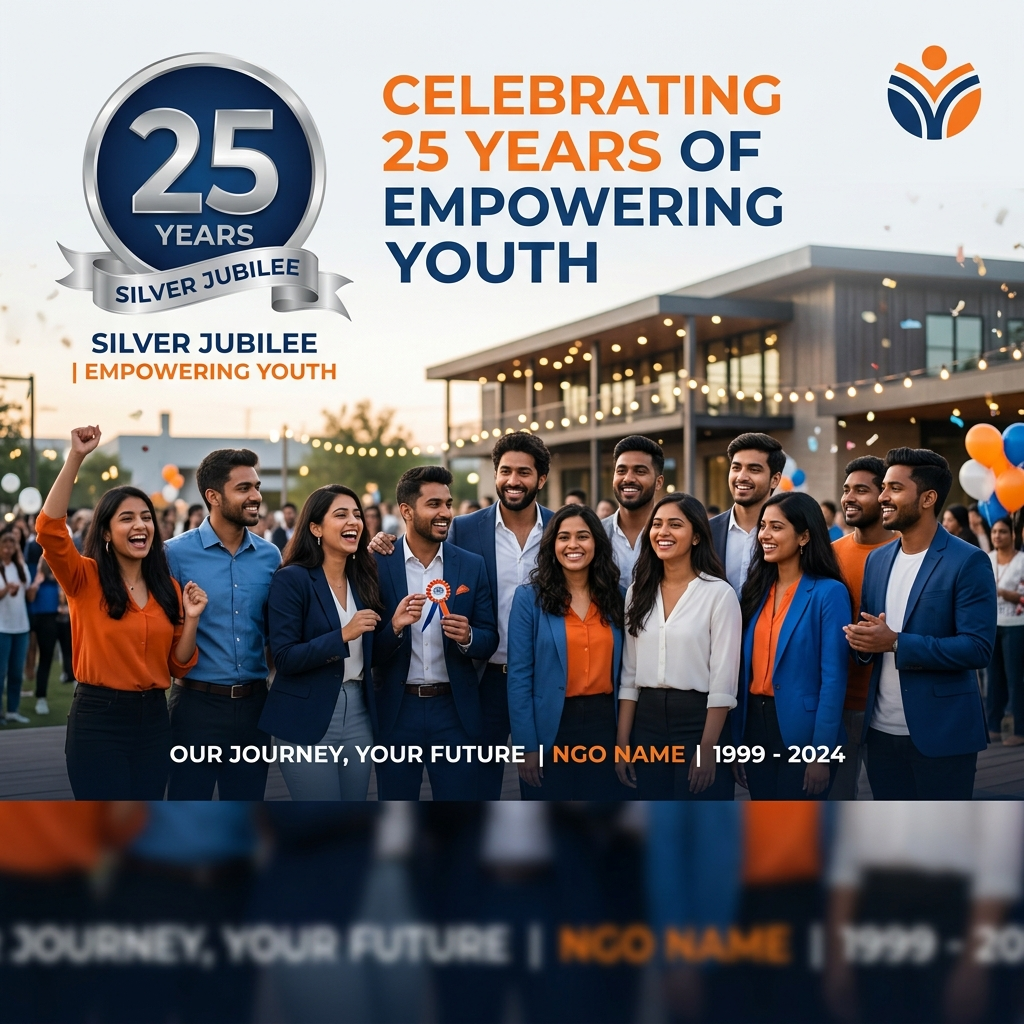
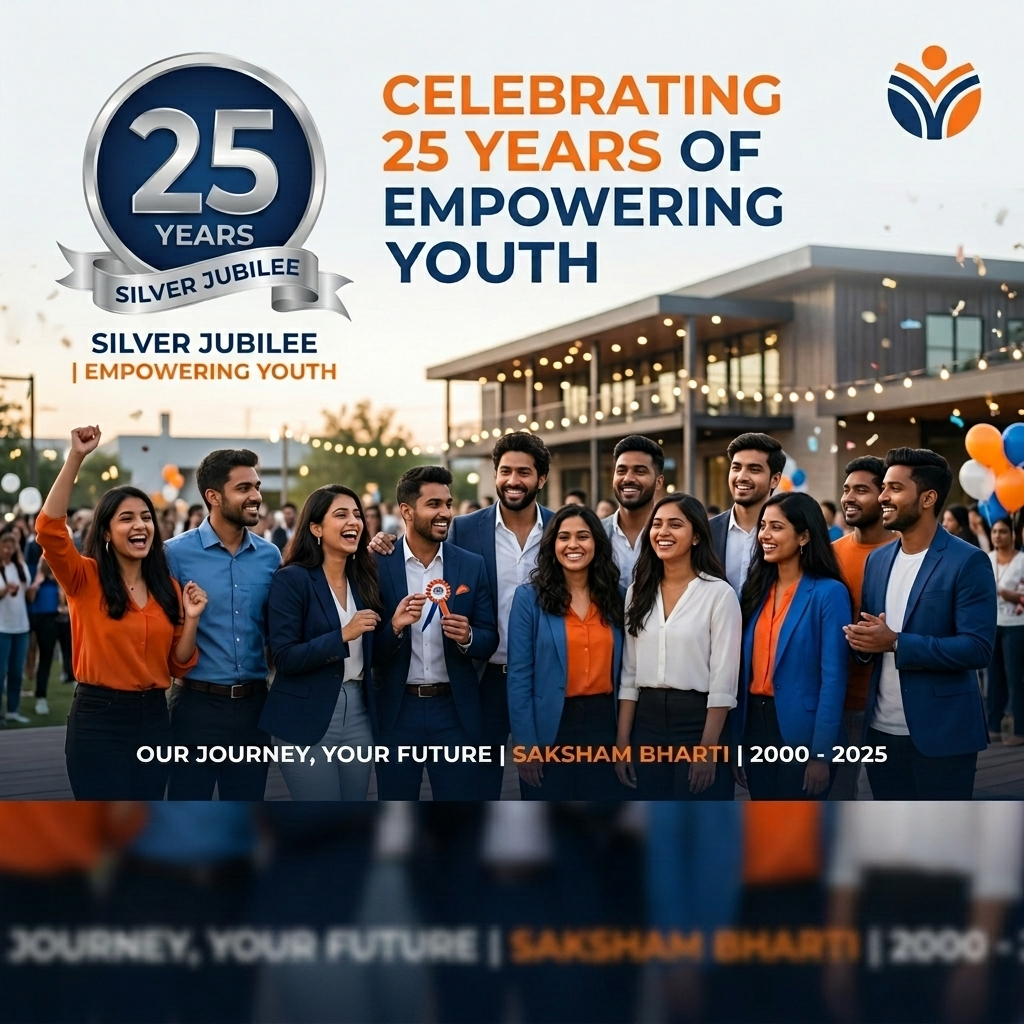
Rebrand organization to Saksham Bharti and align copy/media with 2024-25 Annual Report

diff --git a/frontend/about.php b/frontend/about.php
@@ -1,7 +1,7 @@
 <?php
 // about.php
-$page_title       = 'About Us | Saksham Bharti Foundation';
-$page_description = 'Learn about Saksham Bharti Foundation — our 25-year journey, vision, mission, and the dedicated team driving skill development for underprivileged youth in New Delhi.';
+$page_title       = 'About Us | Saksham Bharti';
+$page_description = 'Learn about Saksham Bharti — our 25-year journey, vision, mission, and the dedicated team driving skill development for underprivileged youth in New Delhi.';
 require_once 'includes/header.php';
 ?>
 
@@ -48,7 +48,7 @@ require_once 'includes/header.php';
     <div class="col-md-7 px-5">
         <h2 class="fw-bold text-primary mb-3">Our Journey & Legacy</h2>
         <p>
-            Established in the year <strong>2000</strong> and registered under the Registration of Societies Act, Saksham Bharti Foundation was born from a simple yet powerful vision: to bridge the gap between unemployment and opportunity.
+            Established in the year <strong>2000</strong> and registered under the Registration of Societies Act, Saksham Bharti was born from a simple yet powerful vision: to bridge the gap between unemployment and opportunity.
         </p>
         <p>
             Founded by a group of dedicated professionals, we have spent <strong>25 years</strong> transforming lives through our core philosophy of <strong>"Aksham se Saksham"</strong> (From Incompetence to Competence). We believe that true development is only possible when every individual is equipped with the skills to be self-reliant.
@@ -68,7 +68,7 @@ require_once 'includes/header.php';
 <div class="row mb-5 py-5 bg-white rounded-4 shadow-sm">
     <div class="col-12 text-center mb-4">
         <h2 class="fw-bold text-primary">Alignment with Sustainable Development Goals</h2>
-        <p class="text-muted">Saksham Bharti Foundation aligns with the United Nations SDGs to foster a sustainable and inclusive future.</p>
+        <p class="text-muted">Saksham Bharti aligns with the United Nations SDGs to foster a sustainable and inclusive future.</p>
     </div>
     <div class="col-12">
         <div class="d-flex flex-wrap justify-content-center gap-3">
@@ -145,7 +145,7 @@ require_once 'includes/header.php';
             <div class="mt-5">
                 <p class="mb-1 text-muted">With gratitude and determination,</p>
                 <p class="signature-font mb-0">Rajeev Kumar Kalra</p>
-                <p class="text-muted small">President, Saksham Bharti Foundation</p>
+                <p class="text-muted small">President, Saksham Bharti</p>
             </div>
         </div>
     </div>
@@ -185,7 +185,7 @@ require_once 'includes/header.php';
   <div class="col-md-12 bg-light p-5 rounded-4 border-start border-5 border-primary">
     <h3 class="fw-bold text-primary mb-4 text-center">A Holistic Ecosystem of Growth</h3>
     <p>
-      Saksham Bharti Foundation provides more than just training; we provide an ecosystem. Our vocational courses in computer education, stitching, beauty culture, and soft skills are supported by over **250+ volunteers** from diverse professional backgrounds. 
+      Saksham Bharti provides more than just training; we provide an ecosystem. Our vocational courses in computer education, stitching, beauty culture, and soft skills are supported by over **250+ volunteers** from diverse professional backgrounds. 
     </p>
     <p class="mb-0">
       From organizing the **Swami Vivekananda Aajeevika Mahotsav** (Job Fairs) to providing pre-admission mentoring, we ensure that the "fruits of development" are accessible to the "last man in the row." We don't just teach skills; we nurture entrepreneurial mindsets that drive long-term community change.

diff --git a/frontend/includes/header.php b/frontend/includes/header.php
@@ -3,8 +3,8 @@ require_once __DIR__ . '/../../backend/config/db.php';
 require_once __DIR__ . '/../../backend/includes/functions.php';
 
 // Page-level SEO defaults (can be overridden by individual pages before including header)
-$page_title       = $page_title       ?? 'Saksham Bharti Foundation | Empowering Youth Through Skill & Education';
-$page_description = $page_description ?? 'Saksham Bharti Foundation empowers underprivileged youth aged 17-23 through free vocational training in IT, beauty culture, and stitching across 5 centers in New Delhi.';
+$page_title       = $page_title       ?? 'Saksham Bharti | Empowering Youth Through Skill & Education';
+$page_description = $page_description ?? 'Saksham Bharti empowers underprivileged youth aged 17-23 through free vocational training in IT, beauty culture, and stitching across 5 centers in New Delhi.';
 
 // Load site settings for dynamic top-bar contact info + social links
 $site = get_all_site_settings();
@@ -116,10 +116,9 @@ function nav_active($page) {
 <nav class="navbar navbar-expand-lg sticky-top shadow-sm py-2" style="background-color: var(--primary-bg);">
     <div class="container-fluid px-lg-5">
         <a class="navbar-brand d-flex align-items-center" href="index.php">
-            <img src="assets/images/image.png" alt="Saksham Bharti Foundation Logo" class="me-3">
+            <img src="assets/images/image.png" alt="Saksham Bharti Logo" class="me-3">
             <div class="brand-text text-white fw-bold">
-                Saksham Bharti<br>
-                <span class="fw-normal" style="font-size:0.65rem;text-transform:uppercase;letter-spacing:2px;color:rgba(255,255,255,0.6);">Foundation</span>
+                Saksham Bharti
             </div>
         </a>
 

diff --git a/frontend/get-involved.php b/frontend/get-involved.php
@@ -1,7 +1,7 @@
 <?php
 // get-involved.php (Donation Page)
-$page_title       = 'Donate & Support | Saksham Bharti Foundation';
-$page_description = 'Support Saksham Bharti Foundation with a donation. Your contribution funds free vocational training for underprivileged youth in New Delhi. Every rupee helps a young person build a dignified future.';
+$page_title       = 'Donate & Support | Saksham Bharti';
+$page_description = 'Support Saksham Bharti with a donation. Your contribution funds free vocational training for underprivileged youth in New Delhi. Every rupee helps a young person build a dignified future.';
 require_once __DIR__ . '/../backend/config/db.php';
 require_once __DIR__ . '/../backend/includes/functions.php';
 
@@ -55,7 +55,7 @@ if ($_SERVER['REQUEST_METHOD'] === 'POST' && isset($_POST['action']) && $_POST['
             send_user_email(
                 $email,
                 $name,
-                'Thank You for Your Donation — Saksham Bharti Foundation',
+                'Thank You for Your Donation — Saksham Bharti',
                 '<p>Your generous contribution of <strong>₹' . number_format($amount, 2) . '</strong> has been received and will go directly towards empowering underprivileged youth through skill development.</p>
                 <p style="background:#f0f7f0;border-left:4px solid #28a745;padding:12px 16px;border-radius:4px;">
                     <strong>Every rupee you give helps a young person build a dignified future.</strong>
@@ -145,7 +145,7 @@ $donate_succ = get_flash_message('donate_success');
                 <div class="col-lg-6">
                     <div class="h-100 d-flex flex-column justify-content-center">
                         <h2 class="fw-bold text-primary mb-4">Every Rupee Counts</h2>
-                        <p class="mb-4">Saksham Bharti Foundation is registered under the Registration of Societies Act. We maintain full transparency in our financial records, which are audited annually.</p>
+                        <p class="mb-4">Saksham Bharti is registered under the Registration of Societies Act. We maintain full transparency in our financial records, which are audited annually.</p>
                         
                         <div class="bg-light p-4 rounded-4 mb-4 border-start border-4 border-primary">
                             <h5 class="fw-bold mb-2">Scholarship Impact</h5>

diff --git a/backend/includes/functions.php b/backend/includes/functions.php
@@ -113,7 +113,7 @@ function send_notification_email($subject, $body) {
         $mail->Body    = '
             <div style="font-family:Arial,sans-serif;max-width:600px;margin:auto;border:1px solid #e0e0e0;border-radius:8px;overflow:hidden;">
                 <div style="background:#1F327F;padding:20px 30px;">
-                    <h2 style="color:#fff;margin:0;">Saksham Bharti Foundation</h2>
+                    <h2 style="color:#fff;margin:0;">Saksham Bharti</h2>
                     <p style="color:#f4a020;margin:4px 0 0;">Admin Notification</p>
                 </div>
                 <div style="padding:30px;color:#333;">
@@ -151,7 +151,7 @@ function send_user_email($to_email, $to_name, $subject, $body_html) {
         $full_body_html = '
             <div style="font-family:Arial,sans-serif;max-width:600px;margin:auto;border:1px solid #e0e0e0;border-radius:8px;overflow:hidden;">
                 <div style="background:#1F327F;padding:20px 30px;">
-                    <h2 style="color:#fff;margin:0;">Saksham Bharti Foundation</h2>
+                    <h2 style="color:#fff;margin:0;">Saksham Bharti</h2>
                     <p style="color:#f4a020;margin:4px 0 0;">Empowering Youth Through Skill &amp; Education</p>
                 </div>
                 <div style="padding:30px;color:#333;line-height:1.8;">
@@ -162,7 +162,7 @@ function send_user_email($to_email, $to_name, $subject, $body_html) {
                     <a href="https://www.sakshambharti.org" style="color:#1F327F;">www.sakshambharti.org</a></p>
                 </div>
                 <div style="background:#f9f9f9;padding:15px 30px;font-size:12px;color:#999;">
-                    &copy; ' . date('Y') . ' Saksham Bharti Foundation. All rights reserved.
+                    &copy; ' . date('Y') . ' Saksham Bharti. All rights reserved.
                 </div>
             </div>';
 

diff --git a/frontend/contact.php b/frontend/contact.php
@@ -1,7 +1,7 @@
 <?php
 // contact.php
-$page_title       = 'Contact Us | Saksham Bharti Foundation';
-$page_description = 'Get in touch with Saksham Bharti Foundation. Visit our 5 training centers across New Delhi or send us a message. We are here to answer your questions about volunteering, donations, and programs.';
+$page_title       = 'Contact Us | Saksham Bharti';
+$page_description = 'Get in touch with Saksham Bharti. Visit our 5 training centers across New Delhi or send us a message. We are here to answer your questions about volunteering, donations, and programs.';
 require_once __DIR__ . '/../backend/config/db.php';
 require_once __DIR__ . '/../backend/includes/functions.php';
 
@@ -60,7 +60,7 @@ if ($_SERVER['REQUEST_METHOD'] === 'POST') {
             send_notification_email($subject, $body);
 
             // Send confirmation to user
-            $user_subject = "We received your message - Saksham Bharti Foundation";
+            $user_subject = "We received your message - Saksham Bharti";
             $user_body = "<p>Thank you for reaching out to us. We have received your message and our team will get back to you shortly.</p>
                           <p><strong>Your Message:</strong><br>" . nl2br($message) . "</p>";
             send_user_email($email, $name, $user_subject, $user_body);

diff --git a/frontend/includes/footer.php b/frontend/includes/footer.php
@@ -14,7 +14,7 @@ $email = $site_settings['contact_email'] ?? '[email redacted]';
     <div class="container py-4">
         <div class="row gy-4">
             <div class="col-md-4">
-                <h4 class="fw-bold text-white mb-3">Saksham Bharti Foundation</h4>
+                <h4 class="fw-bold text-white mb-3">Saksham Bharti</h4>
                 <p>Empowering marginalized communities through skill development, education, and livelihood programs. Celebrating 25 Years of Impact.</p>
                 <div class="d-flex gap-3 mt-3">
                     <?php if ($fb): ?><a href="<?= htmlspecialchars($fb) ?>" target="_blank" class="text-white"><i class="fab fa-facebook fa-lg"></i></a><?php endif; ?>
@@ -36,7 +36,7 @@ $email = $site_settings['contact_email'] ?? '[email redacted]';
             <div class="col-md-4">
                 <h5 class="text-white mb-3">Contact Info</h5>
                 <ul class="list-unstyled">
-                    <li class="mb-2"><a href="https://www.google.com/maps/search/?api=1&query=Saksham+Bharti+Foundation" target="_blank" class="text-light text-decoration-none"><i class="fas fa-map-marker-alt me-2 text-secondary"></i> <?= htmlspecialchars($address) ?></a></li>
+                    <li class="mb-2"><a href="https://www.google.com/maps/search/?api=1&query=Saksham+Bharti" target="_blank" class="text-light text-decoration-none"><i class="fas fa-map-marker-alt me-2 text-secondary"></i> <?= htmlspecialchars($address) ?></a></li>
                     <li class="mb-2"><a href="tel:<?= htmlspecialchars(preg_replace('/[^0-9+]/', '', $phone)) ?>" class="text-light text-decoration-none"><i class="fas fa-phone me-2 text-secondary"></i> <?= htmlspecialchars($phone) ?></a></li>
                     <li class="mb-2"><a href="mailto:<?= htmlspecialchars($email) ?>" class="text-light text-decoration-none"><i class="fas fa-envelope me-2 text-secondary"></i> <?= htmlspecialchars($email) ?></a></li>
                 </ul>
@@ -44,7 +44,7 @@ $email = $site_settings['contact_email'] ?? '[email redacted]';
         </div>
         <hr class="mt-4 border-secondary">
         <div class="text-center pt-2">
-            <p class="mb-0">&copy; <?php echo date('Y'); ?> <a href="index.php" class="text-light text-decoration-none hover-white">Saksham Bharti Foundation</a>. All rights reserved.</p>
+            <p class="mb-0">&copy; <?php echo date('Y'); ?> <a href="index.php" class="text-light text-decoration-none hover-white">Saksham Bharti</a>. All rights reserved.</p>
         </div>
     </div>
 </footer>

diff --git a/frontend/volunteer.php b/frontend/volunteer.php
@@ -1,7 +1,7 @@
 <?php
 // volunteer.php
-$page_title       = 'Become a Volunteer | Saksham Bharti Foundation';
-$page_description = 'Join 250+ volunteers at Saksham Bharti Foundation. Sign up to make a difference in the lives of underprivileged youth through teaching, mentoring, and community outreach in New Delhi.';
+$page_title       = 'Become a Volunteer | Saksham Bharti';
+$page_description = 'Join 250+ volunteers at Saksham Bharti. Sign up to make a difference in the lives of underprivileged youth through teaching, mentoring, and community outreach in New Delhi.';
 require_once __DIR__ . '/../backend/config/db.php';
 require_once __DIR__ . '/../backend/includes/functions.php';
 
@@ -56,7 +56,7 @@ if ($_SERVER['REQUEST_METHOD'] === 'POST' && isset($_POST['action']) && $_POST['
                 $email,
                 $name,
                 'Welcome to Saksham Bharti — Thank You for Volunteering!',
-                '<p>Thank you for registering as a volunteer with <strong>Saksham Bharti Foundation</strong>! We are thrilled to have you join our community of changemakers.</p>
+                '<p>Thank you for registering as a volunteer with <strong>Saksham Bharti</strong>! We are thrilled to have you join our community of changemakers.</p>
                 <p>Here is a summary of your registration:</p>
                 <table style="border-collapse:collapse;width:100%;margin:10px 0;">
                     <tr><td style="padding:8px;border:1px solid #eee;color:#666;width:40%;">Area of Interest</td><td style="padding:8px;border:1px solid #eee;font-weight:bold;">' . htmlspecialchars($interest) . '</td></tr>

diff --git a/backend/config/mail_config.php b/backend/config/mail_config.php
@@ -1,6 +1,6 @@
 <?php
 // ============================================================
-// SMTP Email Configuration — Saksham Bharti Foundation
+// SMTP Email Configuration — Saksham Bharti
 // ============================================================
 // Values are loaded from the .env file in the project root.
 // To change settings, edit the .env file — NOT this file.
@@ -14,7 +14,7 @@ define('MAIL_ENCRYPTION', $_ENV['MAIL_ENCRYPTION']  ?? 'tls');
 define('MAIL_USERNAME',   $_ENV['MAIL_USERNAME']    ?? '[email redacted]');
 define('MAIL_PASSWORD',   $_ENV['MAIL_PASSWORD']    ?? 'your_app_password');
 define('MAIL_FROM_EMAIL', $_ENV['MAIL_FROM_EMAIL']  ?? '[email redacted]');
-define('MAIL_FROM_NAME',  $_ENV['MAIL_FROM_NAME']   ?? 'Saksham Bharti Foundation');
+define('MAIL_FROM_NAME',  $_ENV['MAIL_FROM_NAME']   ?? 'Saksham Bharti');
 
 // Log file path for email errors
 define('MAIL_ERROR_LOG',  __DIR__ . '/../../logs/mail_errors.log');

diff --git a/frontend/activities.php b/frontend/activities.php
@@ -1,7 +1,7 @@
 <?php
 // activity.php
-$page_title       = 'Activities & Events | Saksham Bharti Foundation';
-$page_description = 'Explore the latest activities, events, and community initiatives by Saksham Bharti Foundation — from job fairs and competitions to summer camps and green drives across New Delhi.';
+$page_title       = 'Activities & Events | Saksham Bharti';
+$page_description = 'Explore the latest activities, events, and community initiatives by Saksham Bharti — from job fairs and competitions to summer camps and green drives across New Delhi.';
 require_once 'includes/header.php';
 
 // Fetch all activities

diff --git a/frontend/blog.php b/frontend/blog.php
@@ -1,7 +1,7 @@
 <?php
 // blog.php
-$page_title       = 'Blog & News | Saksham Bharti Foundation';
-$page_description = 'Read the latest blog posts, news, and impact stories from Saksham Bharti Foundation. Stay updated on our programs, events, student success stories, and community initiatives.';
+$page_title       = 'Blog & News | Saksham Bharti';
+$page_description = 'Read the latest blog posts, news, and impact stories from Saksham Bharti. Stay updated on our programs, events, student success stories, and community initiatives.';
 require_once 'includes/header.php';
 
 // Fetch all blog posts from the activities table

diff --git a/frontend/index.php b/frontend/index.php
@@ -1,7 +1,7 @@
 <?php
 // index.php
-$page_title       = 'Saksham Bharti Foundation | Empowering Youth Through Skill & Education';
-$page_description = 'Saksham Bharti Foundation empowers underprivileged youth aged 17-23 through free vocational training in IT, beauty culture, and stitching across 5 centers in New Delhi. 50,000+ lives touched in 25 years.';
+$page_title       = 'Saksham Bharti | Empowering Youth Through Skill & Education';
+$page_description = 'Saksham Bharti empowers underprivileged youth aged 17-23 through free vocational training in IT, beauty culture, and stitching across 5 centers in New Delhi. 50,000+ lives touched in 25 years.';
 require_once 'includes/header.php';
 ?>
 

diff --git a/frontend/impact.php b/frontend/impact.php
@@ -1,6 +1,6 @@
 <?php
 // impact.php
-$page_title       = 'Our Impact | Saksham Bharti Foundation';
+$page_title       = 'Our Impact | Saksham Bharti';
 $page_description = 'Saksham Bharti has trained 2,152 students, secured 390 job placements, awarded 345 scholarships, and runs mega job fairs. Read real success stories of youth transformed by vocational training.';
 require_once 'includes/header.php';
 ?>